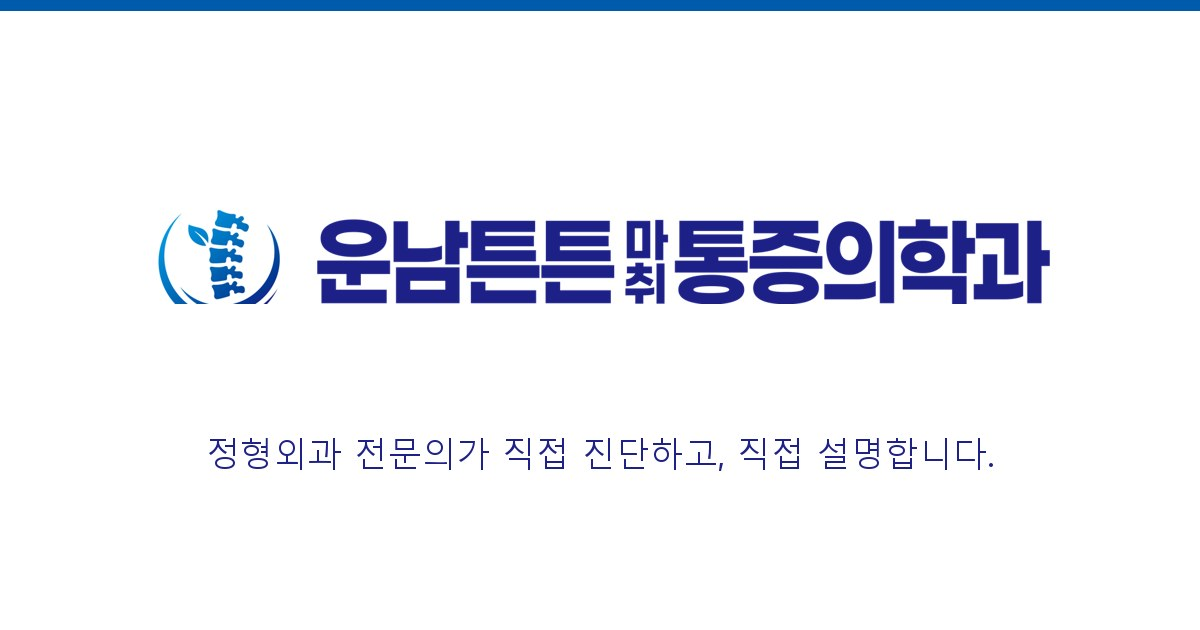
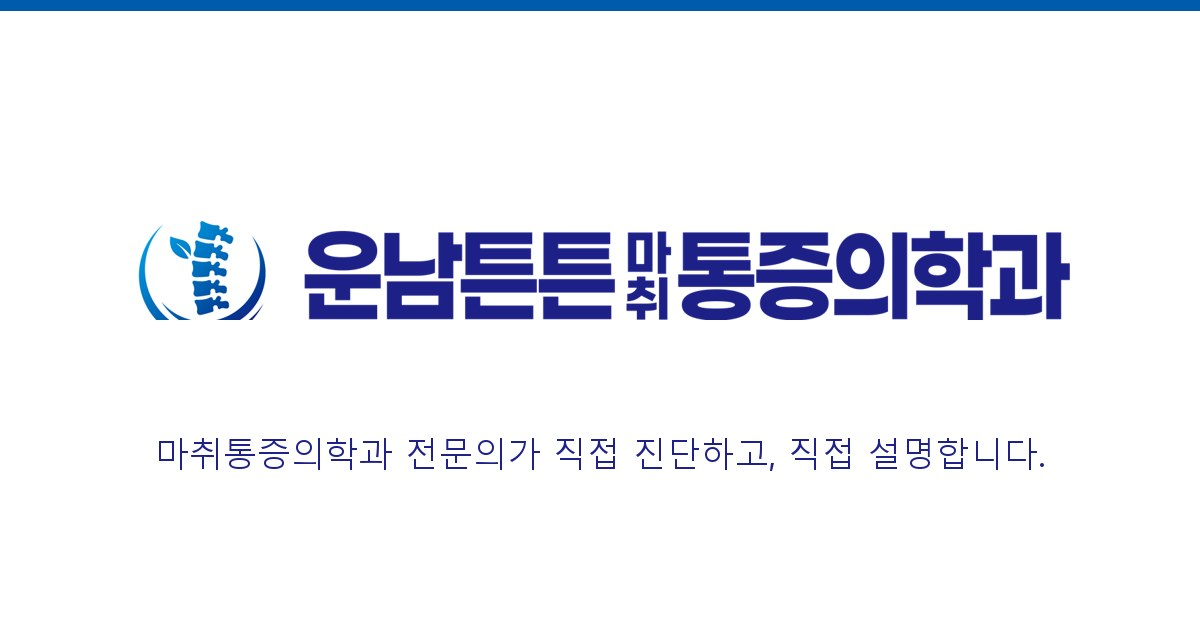
상호 변경: 운남튼튼마취통증의학과 (전문의 표기·SEO·OG 포함)

Changed region(s): [[0.0925, 0.3317, 0.8942, 0.5127], [0.1233, 0.6937, 0.8633, 0.754]]

diff --git a/app/templates/about.html b/app/templates/about.html
@@ -1,7 +1,7 @@
 {% extends "base.html" %}
 {% from "_macros.html" import ph, page_band, clinics_grid, surgery_section, tour_grid with context %}
-{% block title %}병원소개 — {{ clinic.name }} {{ clinic.region }} 정형외과{% endblock %}
-{% block description %}{{ clinic.region }} {{ clinic.name }} 병원소개. 정형외과 전문의가 진단·치료·재활을 한 곳에서 진료하며, 대기 공간부터 치료실까지 병원 둘러보기.{% endblock %}
+{% block title %}병원소개 — {{ clinic.name }} {{ clinic.region }} 마취통증의학과{% endblock %}
+{% block description %}{{ clinic.region }} {{ clinic.name }} 병원소개. 마취통증의학과 전문의가 진단·치료·재활을 한 곳에서 진료하며, 대기 공간부터 치료실까지 병원 둘러보기.{% endblock %}
 
 {% block content %}
 {{ page_band('병원소개', [('병원소개', None)]) }}
@@ -14,7 +14,7 @@
     <div class="greet">
       {{ ph('about-greeting.jpg', '', '', clinic.name ~ ' 진료실', True, 1200, 800) }}
       <div>
-        <h3>정형외과 전문의가 <b>직접 진단하고, 직접 설명합니다.</b></h3>
+        <h3>마취통증의학과 전문의가 <b>직접 진단하고, 직접 설명합니다.</b></h3>
         <p>진단·치료·재활을 한 곳에서 진행합니다. 과잉 진료 없이 환자마다 다른 치료 계획을 세우고, 엑스레이·초음파로 원인을 먼저 확인한 뒤 환자별로 치료 순서를 정합니다.</p>
         <p>수술이 꼭 필요한 경우와 아닌 경우를 구분하는 것이 진료의 시작입니다. 정확한 진단 후 보존적 치료로 충분히 나아질 수 있는 경우, 불필요한 수술을 권하지 않습니다.</p>
         <p>대기 공간부터 치료실까지, 편하게 진료받으실 수 있도록 준비했습니다. 통증이 있을 때 치료하는 것만큼 재발을 막는 자세와 생활습관까지 함께 안내하겠습니다.</p>
@@ -27,7 +27,7 @@
 <!-- 4대 클리닉 -->
 <section class="sj">
   <div class="wrap">
-    <h2>정형외과 전문의가 <span class="thin">처음부터 끝까지 진료합니다.</span></h2>
+    <h2>마취통증의학과 전문의가 <span class="thin">처음부터 끝까지 진료합니다.</span></h2>
     <p class="sub">진단·치료·재활을 한 곳에서. 과잉 진료 없이 환자마다 다른 치료 계획을 세웁니다.</p>
     {{ clinics_grid(inpage=False) }}
   </div>

diff --git a/app/templates/clinic.html b/app/templates/clinic.html
@@ -1,7 +1,7 @@
 {% extends "base.html" %}
 {% from "_macros.html" import page_band, clinic_tabs, spine_panel, joint_panel, ns_points, steps_cards, disc_section with context %}
 {% set TAB_NAMES = {'spine': '척추클리닉', 'joint': '관절클리닉', 'nonsurgical': '비수술클리닉', 'manual': '도수·운동클리닉'} %}
-{% block title %}{{ TAB_NAMES[active_tab] }} — {{ clinic.name }} {{ clinic.region }} 정형외과{% endblock %}
+{% block title %}{{ TAB_NAMES[active_tab] }} — {{ clinic.name }} {{ clinic.region }} 마취통증의학과{% endblock %}
 {% block description %}{{ clinic.region }} {{ clinic.name }} {{ TAB_NAMES[active_tab] }}. 정밀 진단 후 필요한 치료만. 척추·관절, 비수술 재생치료, 도수·운동치료.{% endblock %}
 
 {% block content %}
@@ -23,7 +23,7 @@
     <div class="panel wide{% if active_tab == 'manual' %} on{% endif %}" id="manual">
       <div>
         <h3>도수·운동치료는 <b>이렇게 진행됩니다.</b></h3>
-        <p class="body">정형외과 전문의가 진단 후 도수치료 필요 여부를 결정하고, 전문 치료사와 1:1 맞춤 도수치료를 진행합니다. 만성통증 도수치료, 근막 이완, 체형교정, 1:1 맞춤 운동치료를 환자의 신체 기능 평가 결과에 맞춰 설계합니다.</p>
+        <p class="body">마취통증의학과 전문의가 진단 후 도수치료 필요 여부를 결정하고, 전문 치료사와 1:1 맞춤 도수치료를 진행합니다. 만성통증 도수치료, 근막 이완, 체형교정, 1:1 맞춤 운동치료를 환자의 신체 기능 평가 결과에 맞춰 설계합니다.</p>
         <div class="steps-in">
           {{ steps_cards() }}
         </div>

diff --git a/app/templates/index.html b/app/templates/index.html
@@ -15,7 +15,7 @@
   <div class="txt">
     <span class="kicker">{{ clinic.en }}</span>
     <h1>내 가족을 진료한다는 마음으로,<br><span class="thin">꼭 필요한 치료만 권합니다.</span></h1>
-    <p>정형외과 전문의가 직접 진단하고, 직접 설명합니다.</p>
+    <p>마취통증의학과 전문의가 직접 진단하고, 직접 설명합니다.</p>
     <div class="acts">
       <a class="btn" href="{{ url_for('pages.clinic', tab='spine') }}">클리닉 안내</a>
       <a class="btn ghost" href="#loc">진료시간 · 오시는길</a>
@@ -29,7 +29,7 @@
 <section id="clinics">
   <div class="wrap">
     <span class="kicker">CLINIC</span>
-    <h2>정형외과 전문의가 <span class="thin">처음부터 끝까지 진료합니다.</span></h2>
+    <h2>마취통증의학과 전문의가 <span class="thin">처음부터 끝까지 진료합니다.</span></h2>
     <p class="sub">진단·치료·재활을 한 곳에서. 과잉 진료 없이 환자마다 다른 치료 계획을 세웁니다.</p>
     {{ clinics_grid(inpage=True) }}
   </div>
@@ -62,7 +62,7 @@
   <div class="wrap">
     <span class="kicker" style="color:#9CC9F5">NON-SURGICAL</span>
     <h2>{{ clinic.short }}의 비수술 클리닉</h2>
-    <p class="sub">정형외과 전문의의 재생 치료로 환자별 최적의 회복을 돕습니다.</p>
+    <p class="sub">마취통증의학과 전문의의 재생 치료로 환자별 최적의 회복을 돕습니다.</p>
     <div class="box">
       {{ ns_points() }}
     </div>

diff --git a/app/templates/doctor.html b/app/templates/doctor.html
@@ -1,7 +1,7 @@
 {% extends "base.html" %}
 {% from "_macros.html" import page_band, doctor_section, surgery_section with context %}
-{% block title %}의료진소개 — {{ clinic.name }} {{ clinic.region }} 정형외과{% endblock %}
-{% block description %}{{ clinic.name }} {{ clinic.doctor_title }} {{ clinic.doctor }}. 대학병원에서 쌓은 정형외과 전문의의 경험을 동네에서 편하게.{% endblock %}
+{% block title %}의료진소개 — {{ clinic.name }} {{ clinic.region }} 마취통증의학과{% endblock %}
+{% block description %}{{ clinic.name }} {{ clinic.doctor_title }} {{ clinic.doctor }}. 대학병원에서 쌓은 마취통증의학과 전문의의 경험을 동네에서 편하게.{% endblock %}
 
 {% block content %}
 {{ page_band('의료진소개', [('의료진소개', None)]) }}
@@ -9,8 +9,8 @@
 <section>
   <div class="wrap">
     <span class="kicker">DOCTOR</span>
-    <h2>정형외과 전문의가 <span class="thin">처음부터 끝까지 진료합니다.</span></h2>
-    <p class="sub">진단·치료·재활을 한 곳에서. 정형외과 전문의가 직접 진단하고, 직접 설명합니다.</p>
+    <h2>마취통증의학과 전문의가 <span class="thin">처음부터 끝까지 진료합니다.</span></h2>
+    <p class="sub">진단·치료·재활을 한 곳에서. 마취통증의학과 전문의가 직접 진단하고, 직접 설명합니다.</p>
   </div>
 </section>
 

diff --git a/app/templates/_macros.html b/app/templates/_macros.html
@@ -120,7 +120,7 @@
 
 {# 도수치료 STEP 카드 4개 #}
 {% macro steps_cards() -%}
-<div class="step"><span class="n">STEP 01</span><h3>진단</h3><p>정형외과 전문의가 진단 후 도수치료 필요 여부를 결정하고, 신체 기능을 평가합니다.</p></div>
+<div class="step"><span class="n">STEP 01</span><h3>진단</h3><p>마취통증의학과 전문의가 진단 후 도수치료 필요 여부를 결정하고, 신체 기능을 평가합니다.</p></div>
 <div class="step"><span class="n">STEP 02</span><h3>계획</h3><p>검사 결과를 바탕으로 치료 목표를 정하고, 전문 치료사와 1:1 맞춤 도수치료를 시작합니다.</p></div>
 <div class="step"><span class="n">STEP 03</span><h3>재평가</h3><p>치료 경과를 주기적으로 확인하고, 호전 정도에 따라 치료 강도와 계획을 조정합니다.</p></div>
 <div class="step"><span class="n">STEP 04</span><h3>자가관리</h3><p>재발을 막기 위해 집에서 할 수 있는 근력 운동과 자세 교정법을 알려드립니다.</p></div>

diff --git a/app/templates/base.html b/app/templates/base.html
@@ -4,7 +4,7 @@
 <meta charset="UTF-8">
 <meta name="viewport" content="width=device-width, initial-scale=1">
 {%- set page_title %}{% block title %}{{ clinic.name }} — 척추·관절·비수술·도수치료{% endblock %}{% endset -%}
-{%- set page_desc %}{% block description %}정형외과 전문의가 직접 진단하고 치료하는 {{ clinic.name }}. 척추·관절 클리닉, 비수술 재생치료, 도수·운동치료.{% endblock %}{% endset -%}
+{%- set page_desc %}{% block description %}마취통증의학과 전문의가 직접 진단하고 치료하는 {{ clinic.name }}. 척추·관절 클리닉, 비수술 재생치료, 도수·운동치료.{% endblock %}{% endset -%}
 <title>{{ page_title }}</title>
 <meta name="description" content="{{ page_desc }}">
 <link rel="canonical" href="{{ site_url }}{{ request.path }}">

diff --git a/app/templates/location.html b/app/templates/location.html
@@ -1,6 +1,6 @@
 {% extends "base.html" %}
 {% from "_macros.html" import page_band, loc_split, hours_table, inquiry_form with context %}
-{% block title %}오시는길·진료시간 — {{ clinic.name }} {{ clinic.region }} 정형외과{% endblock %}
+{% block title %}오시는길·진료시간 — {{ clinic.name }} {{ clinic.region }} 마취통증의학과{% endblock %}
 {% block description %}{{ clinic.name }} 오시는길. {{ clinic.address }}, 전화 {{ clinic.tel }}. 진료시간·주차 안내와 상담 문의.{% endblock %}
 
 {% block content %}

diff --git a/config.py b/config.py
@@ -28,11 +28,11 @@ def _float_or_none(key):
 # 병원 정보 — 확정되면 여기만 바꾼다. [ ] 는 미정 placeholder.
 # ---------------------------------------------------------------------------
 CLINIC = {
-    "name": "운남튼튼정형외과의원",   # 정식 명칭 (로고·타이틀·푸터)
+    "name": "운남튼튼마취통증의학과",   # 정식 명칭 (로고·타이틀·푸터)
     "short": "운남튼튼",              # 짧은 이름 (히어로 kicker, 비수술 섹션 제목)
-    "en": "UNNAM TUNTUN ORTHOPEDICS",
+    "en": "UNNAM TUNTUN PAIN CLINIC",
     "mark": "OO",                     # 텍스트 마크 (현재 헤더는 img/logo-mark.png 사용)
-    "region": "[지역명]",             # SEO: "[병원명]정형외과 [지역명]"
+    "region": "[지역명]",             # SEO: "[병원명] 마취통증의학과 [지역명]"
     "tel": "000.000.0000",            # 화면 표시용
     "tel_link": "0000000000",         # tel: 링크용 (숫자만)
     "fax": "[000-000-0000]",

diff --git a/app/__init__.py b/app/__init__.py
@@ -45,7 +45,7 @@ def create_app(config_object=Config):
                 "name": c["name"],
                 "url": app.config.get("SITE_URL", ""),
                 "telephone": c["tel_link"],
-                "medicalSpecialty": "Orthopedic",
+                "medicalSpecialty": "Anesthesia",
                 "address": {
                     "@type": "PostalAddress",
                     "streetAddress": c["address_road"],

diff --git a/CLAUDE.md b/CLAUDE.md
@@ -1,7 +1,7 @@
-# 정형외과 홈페이지 — CLAUDE.md
+# 운남튼튼마취통증의학과 홈페이지 — CLAUDE.md
 
 ## 프로젝트 개요
-- 클라이언트: [병원명]정형외과의원 (placeholder — 확정 시 전체 치환)
+- 클라이언트: 운남튼튼마취통증의학과 (진료과: 마취통증의학과. 카피의 "전문의" 표기는 마취통증의학과 전문의 기준)
 - 목적: 원페이지 스크롤형 병원 홈페이지 + 서브페이지 4개
 - 레퍼런스: 당진효자정형외과의원 사이트의 **섹션 구조·정보 위계**만 참고. 문구·사진·로고·일러스트는 절대 재사용하지 않음 (저작권). 모든 카피는 `docs/01_기획서.md`의 원고 사용.
 - 디자인 확정본: `prototype/index.html` — 이 파일의 룩을 그대로 Jinja2 템플릿으로 옮긴다. 임의로 디자인을 바꾸지 말 것.

diff --git a/docs/03_콘텐츠_에셋_체크리스트.md b/docs/03_콘텐츠_에셋_체크리스트.md
@@ -21,7 +21,7 @@
 | fig-nonsurgical.jpg | 비수술 박스 우측 사진 (800×960) | 메인·클리닉 | |
 | card-disc.jpg, card-scoliosis.jpg, card-stenosis.jpg, card-fracture.jpg, card-neck.jpg | 척추·디스크 카드 5장 (800×500) | 메인·클리닉 | 디스크·측만증·협착증·압박골절·거북목 순 |
 | og-image.jpg | 카카오톡·SNS 공유 썸네일 | 전 페이지 meta | 1200×630, 로고+병원명 |
-| logo-mark.png / logo-mark-white.png | 헤더·푸터 로고 마크 | 전 페이지 | .ai 에서 추출 완료. 워드마크(logo.png)는 "마취통증의학과" 표기라 미사용 |
+| logo-mark.png / logo-mark-white.png | 헤더·푸터 로고 마크 | 전 페이지 | .ai 에서 추출 완료. 워드마크 전체(logo.png)도 사용 가능 (상호 확정: 마취통증의학과) |
 
 ## 2. 텍스트 (config.py `CLINIC` 에 입력)
 

diff --git a/deploy/README.md b/deploy/README.md
@@ -48,7 +48,7 @@ curl -s http://127.0.0.1:8037/robots.txt
 ufw status | head -1
 ```
 
-기대 출력: `active (running)` / `<title>운남튼튼정형외과의원 …</title>` / `admin:401` / robots 내용.
+기대 출력: `active (running)` / `<title>운남튼튼마취통증의학과 …</title>` / `admin:401` / robots 내용.
 `ufw` 가 active 면 `ufw allow 8037/tcp`. 실패 시 `journalctl -u ortho -n 30 --no-pager`.
 
 ## 4. 도메인 연결 (도메인 확정 후)
